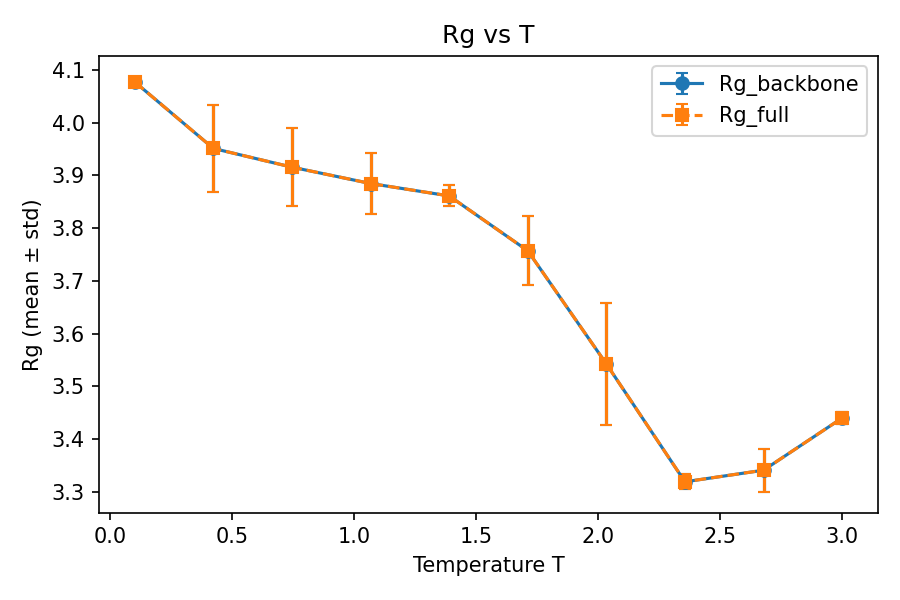
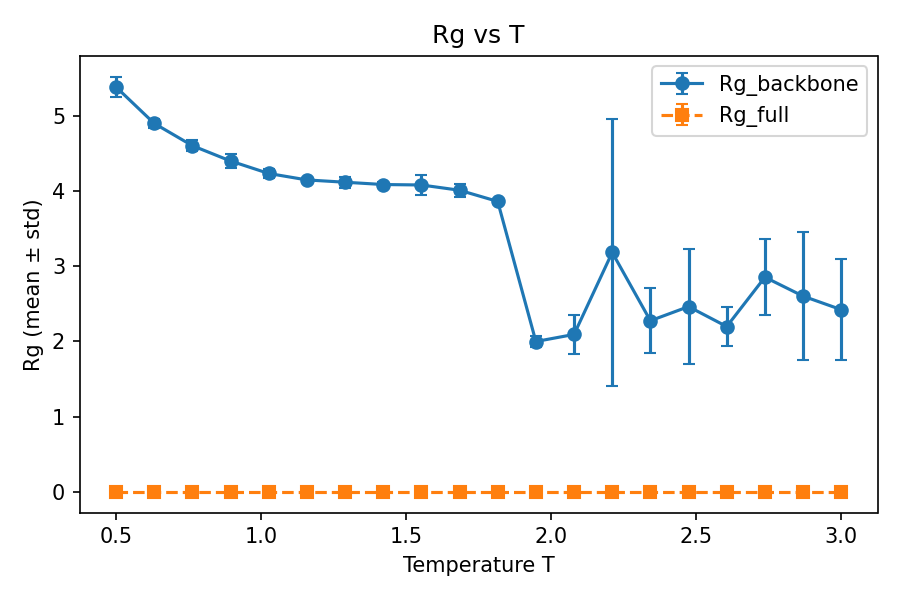
new stuff-bookkeeping

diff --git a/temp_scan.py b/temp_scan.py
@@ -15,7 +15,7 @@ import numpy as np
 import matplotlib.pyplot as plt
 from statistics import mean, stdev
 
-DEFAULT_SIM_SCRIPT = "HP watershell.py"
+DEFAULT_SIM_SCRIPT = "uniform chain watershell.py"
 
 # fallback regex (old single-line format)
 FINAL_RE = re.compile(r"Final E\s*=\s*([-\d\.]+),\s*Rg\s*=\s*([-\d\.]+)")
@@ -207,11 +207,12 @@ def plot_results(results, out_prefix="temp_scan"):
 
 def main():
     ap = argparse.ArgumentParser()
-    ap.add_argument("--Tmin", type=float, default=0.1)
-    ap.add_argument("--Tmax", type=float, default=3.0)
-    ap.add_argument("--nT", type=int, default=10)
-    ap.add_argument("--reps", type=int, default=2, help="replicates per T")
-    ap.add_argument("--steps", type=int, default=50000)
+    ap.add_argument("--Tmin", type=float, default=1.5)
+    ap.add_argument("--Tmax", type=float, default=2.5)
+    ap.add_argument("--nT", type=int, default=20)
+    
+    ap.add_argument("--reps", type=int, default=3, help="replicates per T")
+    ap.add_argument("--steps", type=int, default=500000)
     ap.add_argument("--seed", type=int, default=42)
     ap.add_argument("--sim-script", type=str, default=DEFAULT_SIM_SCRIPT)
     ap.add_argument("--extra-args", type=str, default="", help="extra args to pass to sim script (quoted)")
